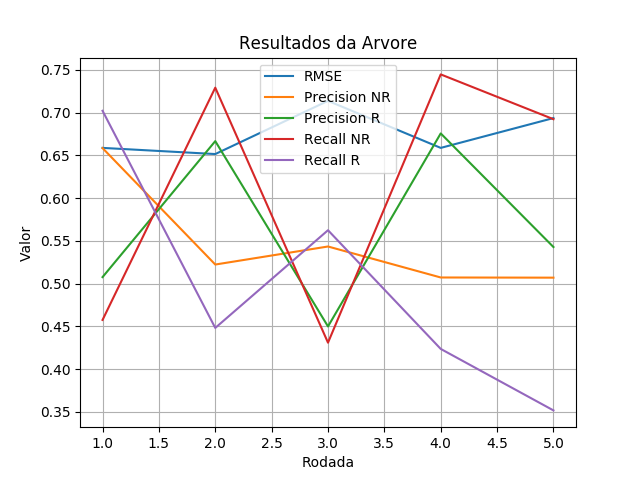
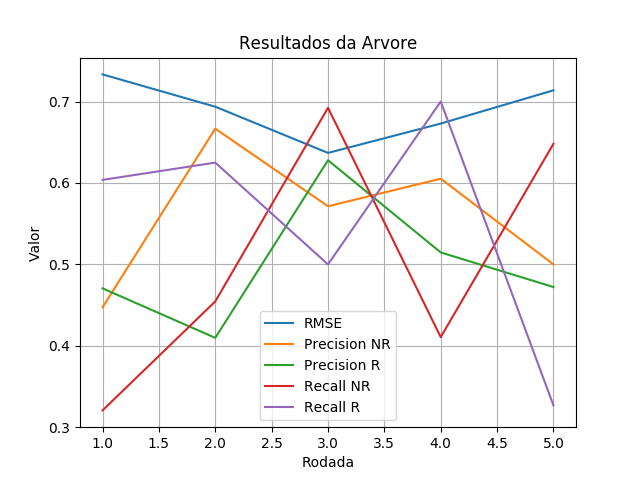
graficos finalizados

diff --git a/main.py b/main.py
@@ -5,7 +5,7 @@ from similarity import get_song_distance
 from radio import Radio
 from simulated import environment
 from interface import interface_menu, random_choice
-from graphics import plot_feature_importance, plot_evaluations, plot_similarity
+from graphics import plot_feature_importance, plot_evaluations, plot_similarity, plot_final_state, plot_nodes
 import pandas as pd
 import os
 import time
@@ -29,7 +29,7 @@ def menu():
 def experiment_cicles(cicles=5, set_size=500):
     weight_df = pd.DataFrame(columns=list([]))
     evaluate_df = pd.DataFrame(columns=list([]))
-    similarity_df = pd.DataFrame(columns=list(['similaridade']))
+    similarity_df = pd.DataFrame(columns=list())
     for i in range(cicles):
         print('- * - Iniciando o Ciclo: ', str(i))
         print("+ Extraindo " + str(set_size) + " músicas")
@@ -92,12 +92,14 @@ def experiment_cicles(cicles=5, set_size=500):
         #
         similarity_df = pd.concat([similarity_df,
                   pd.DataFrame(
-                      [[similarity]],
-                      columns=['similaridade'],
+                      [[i for i in similarity.values()]],
+                      columns=[x for x in similarity],
                   )])
     plot_feature_importance(weight_df)
     plot_evaluations(evaluate_df)
-    plot_similarity(similarity_df)
+    plot_similarity(similarity_df['similaridade'].tolist())
+    plot_final_state(similarity_df['final_state'].tolist())
+    plot_nodes(similarity_df['total_visitas'].tolist())
 
 
 def user_experiment():

diff --git a/graphics.py b/graphics.py
@@ -53,7 +53,6 @@ def plot_evaluations(df):
 
 
 def plot_similarity(df):
-    print(df)
     directory = str(
         'results/'
     )
@@ -65,12 +64,58 @@ def plot_similarity(df):
     plt.xlabel('Rodada')
     plt.ylabel('Valor')
     plt.plot(
-        [i + 1 for i in range(df['similaridade'].count())],
-        df['similaridade'].tolist()
+        [i + 1 for i in range(len(df))],
+        df
     )
     plt.legend(loc='best')
     plt.savefig(
         str(directory)
         + 'similarity.png'
+    )
+    plt.close()
+
+
+def plot_final_state(df):
+    directory = str(
+        'results/'
+    )
+    if not os.path.exists(directory):
+        os.makedirs(directory)
+    plt.figure()
+    plt.grid(True)
+    plt.title('Rodadas que chegaam ao fim')
+    plt.xlabel('Rodada')
+    plt.ylabel('Valor')
+    plt.plot(
+        [i + 1 for i in range(len(df))],
+        df
+    )
+    plt.legend(loc='best')
+    plt.savefig(
+        str(directory)
+        + 'final_state.png'
+    )
+    plt.close()
+
+
+def plot_nodes(df):
+    directory = str(
+        'results/'
+    )
+    if not os.path.exists(directory):
+        os.makedirs(directory)
+    plt.figure()
+    plt.grid(True)
+    plt.title('Total de Nós visitados')
+    plt.xlabel('Rodada')
+    plt.ylabel('Valor')
+    plt.plot(
+        [i + 1 for i in range(len(df))],
+        df
+    )
+    plt.legend(loc='best')
+    plt.savefig(
+        str(directory)
+        + 'know_nodes.png'
     )
     plt.close()

diff --git a/simulated.py b/simulated.py
@@ -71,19 +71,21 @@ def covert(distance_matrix, song_stages):
 
 
 def environment(groot, song_stages, DEBUG=True):
-    finished = covert(groot.get_distance_matrix(), song_stages)
+    response = covert(groot.get_distance_matrix(), song_stages)
     time_to_try = 0
-    similarity = 0
-    while not finished['finished'] and time_to_try <= CHANCE:
+    results = dict()
+    while not response['finished'] and time_to_try <= CHANCE:
         finished = covert(groot.get_distance_matrix(), song_stages)
         time_to_try += 1
-        similarity = finished['similarity']
+        results['similaridade'] = response['similarity']
+        results['final_state'] = response['finished']
+        results['total_visitas'] = len(set(response['jump_order']))
         if DEBUG is True:
-            print("Similaridade da lista: " + str(finished['similarity']))
-            print("Ordem de pulo: " + str(finished['jump_order']))
+            print("Similaridade da lista: " + str(response['similarity']))
+            print("Ordem de pulo: " + str(response['jump_order']))
     if DEBUG is True:
-        paint_the_root(finished['jump_order'])
-    return similarity
+        paint_the_root(response['jump_order'])
+    return results
 
 
 def paint_the_root(jumper_list):
